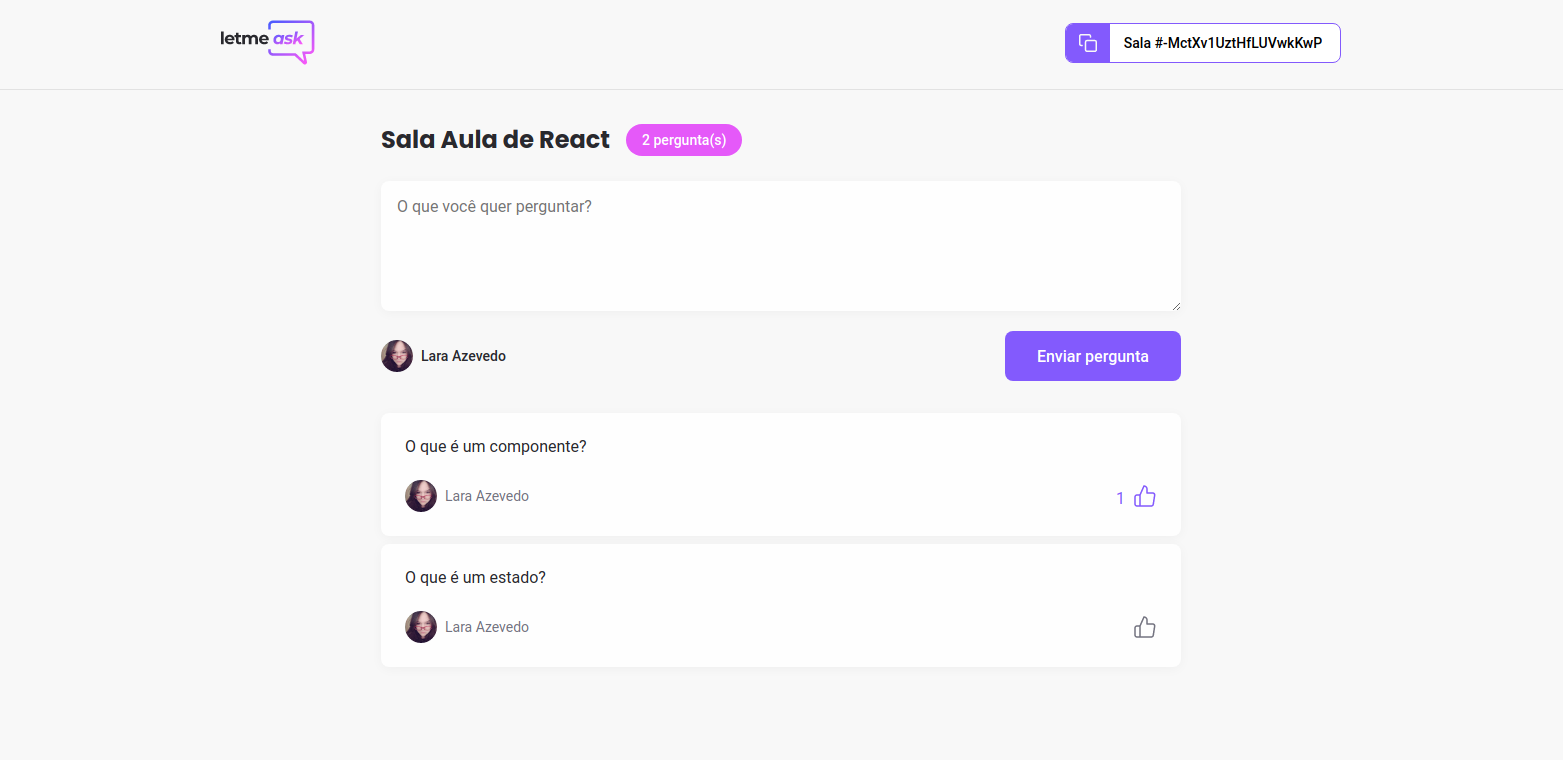
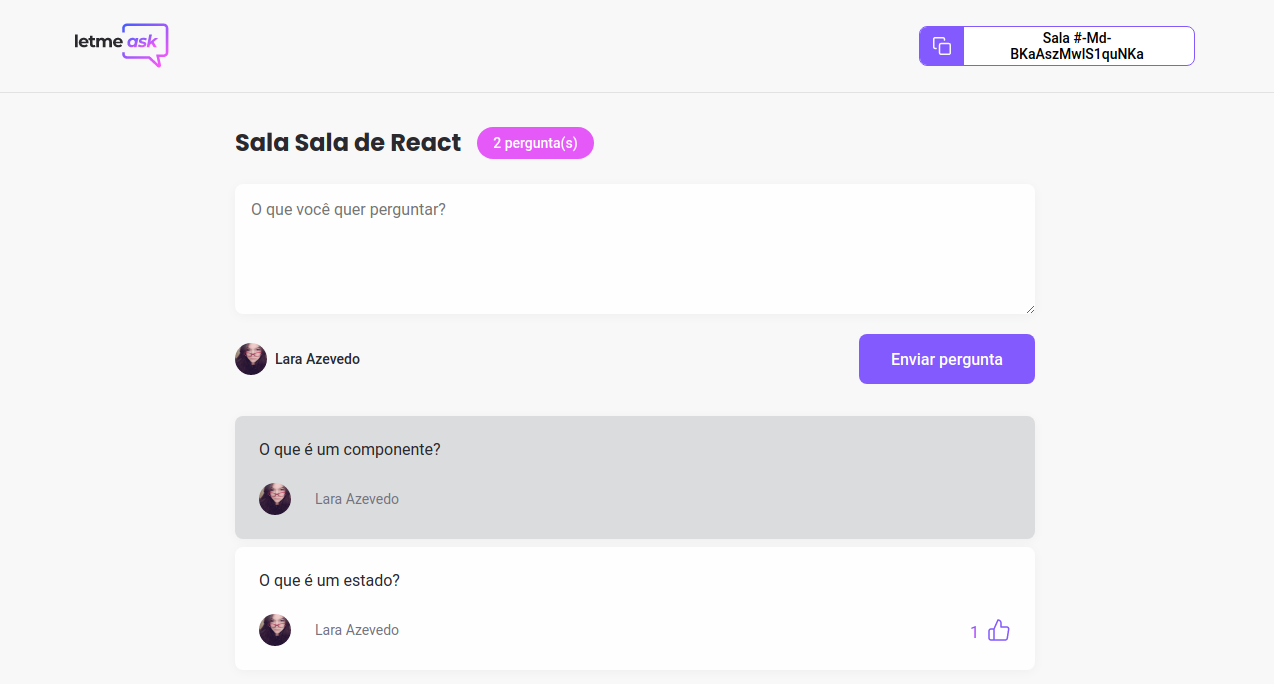
Projeto finalizado! :)

diff --git a/src/pages/Room.tsx b/src/pages/Room.tsx
@@ -1,4 +1,3 @@
-import { useEffect } from "react";
 import { FormEvent, useState } from "react";
 import { useParams } from "react-router-dom";
 
@@ -51,16 +50,20 @@ export function Room() {
     setNewQuestion("");
   }
 
-  async function handleLikeQuestion(questionId: string, likeId: string | undefined) {
+  async function handleLikeQuestion(
+    questionId: string,
+    likeId: string | undefined
+  ) {
     if (likeId) {
-      await database.ref(`rooms/${roomId}/questions/${questionId}/likes/${likeId}`).remove()
+      await database
+        .ref(`rooms/${roomId}/questions/${questionId}/likes/${likeId}`)
+        .remove();
     } else {
       await database.ref(`rooms/${roomId}/questions/${questionId}/likes`).push({
         authorId: user?.id,
-      })
+      });
     }
   }
-
 
   return (
     <div id="page-room">
@@ -108,18 +111,38 @@ export function Room() {
                 key={question.id}
                 content={question.content}
                 author={question.author}
+                isAnswered={question.isAnswered}
+                isHighlighted={question.isHighlighted}
               >
-                <button
-                  className={`like-button ${question.likeId ? 'liked' : ''}`}
-                  type="button"
-                  aria-label="Marcar como gostei"
-                  onClick={() => handleLikeQuestion(question.id, question.likeId)}
-                >
-                  { question.likeCount > 0 && <span>{question.likeCount}</span> }
-                  <svg width="24" height="24" viewBox="0 0 24 24" fill="none" xmlns="http://www.w3.org/2000/svg">
-                    <path d="M7 22H4C3.46957 22 2.96086 21.7893 2.58579 21.4142C2.21071 21.0391 2 20.5304 2 20V13C2 12.4696 2.21071 11.9609 2.58579 11.5858C2.96086 11.2107 3.46957 11 4 11H7M14 9V5C14 4.20435 13.6839 3.44129 13.1213 2.87868C12.5587 2.31607 11.7956 2 11 2L7 11V22H18.28C18.7623 22.0055 19.2304 21.8364 19.5979 21.524C19.9654 21.2116 20.2077 20.7769 20.28 20.3L21.66 11.3C21.7035 11.0134 21.6842 10.7207 21.6033 10.4423C21.5225 10.1638 21.3821 9.90629 21.1919 9.68751C21.0016 9.46873 20.7661 9.29393 20.5016 9.17522C20.2371 9.0565 19.9499 8.99672 19.66 9H14Z" stroke="#737380" strokeWidth="1.5" strokeLinecap="round" strokeLinejoin="round"/>
-                  </svg>
-                </button>
+                {!question.isAnswered && (
+                  <button
+                    className={`like-button ${question.likeId ? "liked" : ""}`}
+                    type="button"
+                    aria-label="Marcar como gostei"
+                    onClick={() =>
+                      handleLikeQuestion(question.id, question.likeId)
+                    }
+                  >
+                    {question.likeCount > 0 && (
+                      <span>{question.likeCount}</span>
+                    )}
+                    <svg
+                      width="24"
+                      height="24"
+                      viewBox="0 0 24 24"
+                      fill="none"
+                      xmlns="http://www.w3.org/2000/svg"
+                    >
+                      <path
+                        d="M7 22H4C3.46957 22 2.96086 21.7893 2.58579 21.4142C2.21071 21.0391 2 20.5304 2 20V13C2 12.4696 2.21071 11.9609 2.58579 11.5858C2.96086 11.2107 3.46957 11 4 11H7M14 9V5C14 4.20435 13.6839 3.44129 13.1213 2.87868C12.5587 2.31607 11.7956 2 11 2L7 11V22H18.28C18.7623 22.0055 19.2304 21.8364 19.5979 21.524C19.9654 21.2116 20.2077 20.7769 20.28 20.3L21.66 11.3C21.7035 11.0134 21.6842 10.7207 21.6033 10.4423C21.5225 10.1638 21.3821 9.90629 21.1919 9.68751C21.0016 9.46873 20.7661 9.29393 20.5016 9.17522C20.2371 9.0565 19.9499 8.99672 19.66 9H14Z"
+                        stroke="#737380"
+                        strokeWidth="1.5"
+                        strokeLinecap="round"
+                        strokeLinejoin="round"
+                      />
+                    </svg>
+                  </button>
+                )}
               </Question>
             );
           })}

diff --git a/src/pages/AdminRoom.tsx b/src/pages/AdminRoom.tsx
@@ -2,6 +2,8 @@ import { useHistory, useParams } from "react-router-dom";
 
 import logoImg from "../assets/images/logo.svg";
 import deleteImg from "../assets/images/delete.svg";
+import checkImg from "../assets/images/check.svg";
+import answerImg from "../assets/images/answer.svg";
 
 import { Button } from "../components/Button";
 import { Question } from "../components/Question";
@@ -12,13 +14,12 @@ import { database } from "../services/firebase";
 
 import "../styles/room.scss";
 
-
 type RoomParams = {
   id: string;
 };
 
 export function AdminRoom() {
-  const history = useHistory()
+  const history = useHistory();
   //const { user } = useAuth();
   const params = useParams<RoomParams>();
   const roomId = params.id;
@@ -28,15 +29,27 @@ export function AdminRoom() {
   async function handleEndRoom() {
     await database.ref(`rooms/${roomId}`).update({
       endedAt: new Date(),
-    })
+    });
 
-    history.push('/');
+    history.push("/");
   }
 
   async function handleDeleteQuestion(questionId: string) {
-    if (window.confirm('Tem certeza que você deseja excluir esta pergunta?')) {
+    if (window.confirm("Tem certeza que você deseja excluir esta pergunta?")) {
       await database.ref(`rooms/${roomId}/questions/${questionId}`).remove();
     }
+  }
+
+  async function handleCheckQuestionAsAnswered(questionId: string) {
+    await database.ref(`rooms/${roomId}/questions/${questionId}`).update({
+      isAnswered: true,
+    });
+  }
+
+  async function handleHighlightQuestion(questionId: string) {
+    await database.ref(`rooms/${roomId}/questions/${questionId}`).update({
+      isHighlighted: true,
+    });
   }
 
   return (
@@ -44,10 +57,12 @@ export function AdminRoom() {
       <header>
         <div className="content">
           <img src={logoImg} alt="Letmeask" />
-         <div>
-         <RoomCode code={roomId} />
-          <Button isOutlined onClick={handleEndRoom}>Encerrar sala</Button>
-         </div>
+          <div>
+            <RoomCode code={roomId} />
+            <Button isOutlined onClick={handleEndRoom}>
+              Encerrar sala
+            </Button>
+          </div>
         </div>
       </header>
 
@@ -61,18 +76,40 @@ export function AdminRoom() {
           {questions.map((question) => {
             return (
               <Question
-              key={question.id}
-              content={question.content}
-              author={question.author}
-            >
-              <button
-                type="button"
-                onClick={() => handleDeleteQuestion(question.id)}
+                key={question.id}
+                content={question.content}
+                author={question.author}
+                isAnswered={question.isAnswered}
+                isHighlighted={question.isHighlighted}
               >
-                <img src={deleteImg} alt="Remover pergunta" />
-              </button>
-            </Question>
-            )
+                {!question.isAnswered && (
+                  <>
+                    <button
+                      type="button"
+                      onClick={() => handleCheckQuestionAsAnswered(question.id)}
+                    >
+                      <img
+                        src={checkImg}
+                        alt="Marcar pergunta como respondida"
+                      />
+                    </button>
+                    <button
+                      type="button"
+                      onClick={() => handleHighlightQuestion(question.id)}
+                    >
+                      <img src={answerImg} alt="Dar destaque à pergunta" />
+                    </button>
+                  </> 
+                )}
+
+                <button
+                  type="button"
+                  onClick={() => handleDeleteQuestion(question.id)}
+                >
+                  <img src={deleteImg} alt="Remover pergunta" />
+                </button>
+              </Question>
+            );
           })}
         </div>
       </main>

diff --git a/src/components/Question/index.tsx b/src/components/Question/index.tsx
@@ -1,26 +1,40 @@
-import { ReactNode } from 'react';
-import './styles.scss';
+import { ReactNode } from "react";
+import cx from 'classnames';
+
+import "./styles.scss";
 
 type QuestionProps = {
-    content: string;
-    author: {
-        name: string;
-        avatar: string;
-    };
-    children?: ReactNode;
-}
+  content: string;
+  author: {
+    name: string;
+    avatar: string;
+  };
+  children?: ReactNode;
+  isAnswered?: boolean;
+  isHighlighted?: boolean;
+};
 
-export function Question({content, author, children}: QuestionProps) {
-    return (
-        <div className="question">
-            <p>{content}</p>
-            <footer>
-                <div className="user-info">
-                    <img src={author.avatar} alt={author.name} />
-                    <span>{author.name}</span>
-                </div>
-                <div>{children}</div>
-            </footer>
+export function Question({
+  content,
+  author,
+  children,
+  isAnswered = false,
+  isHighlighted = false,
+}: QuestionProps) {
+  return (
+    <div className={cx(
+        'question',
+        { answered: isAnswered },
+        { highlighted: isHighlighted && !isAnswered }
+    )}>
+      <p>{content}</p>
+      <footer>
+        <div className="user-info">
+          <img src={author.avatar} alt={author.name} />
+          <span>{author.name}</span>
         </div>
-    )
+        <div>{children}</div>
+      </footer>
+    </div>
+  );
 }

diff --git a/src/components/Question/styles.scss b/src/components/Question/styles.scss
@@ -7,6 +7,16 @@
     & + .question {
       margin-top: 8px;
     }
+
+    &.answered {
+      background: #dbdcdd;
+    }
+
+    &.highlighted  {
+      background: #f4f0ff; 
+      border: 1px solid #835AFD;
+    
+    }
   
     p {
       color: #29292e;
@@ -14,7 +24,7 @@
   
     footer {
       display: flex;
-      justify-content: space-between;
+      justify-content: space-between; 
       align-items: center;
       margin-top: 24px;
   
@@ -35,6 +45,11 @@
         }
       }
   
+      > div {
+        display: flex;
+        gap: 16px;
+      }
+
       button {
         border: 0;
         background: transparent;
